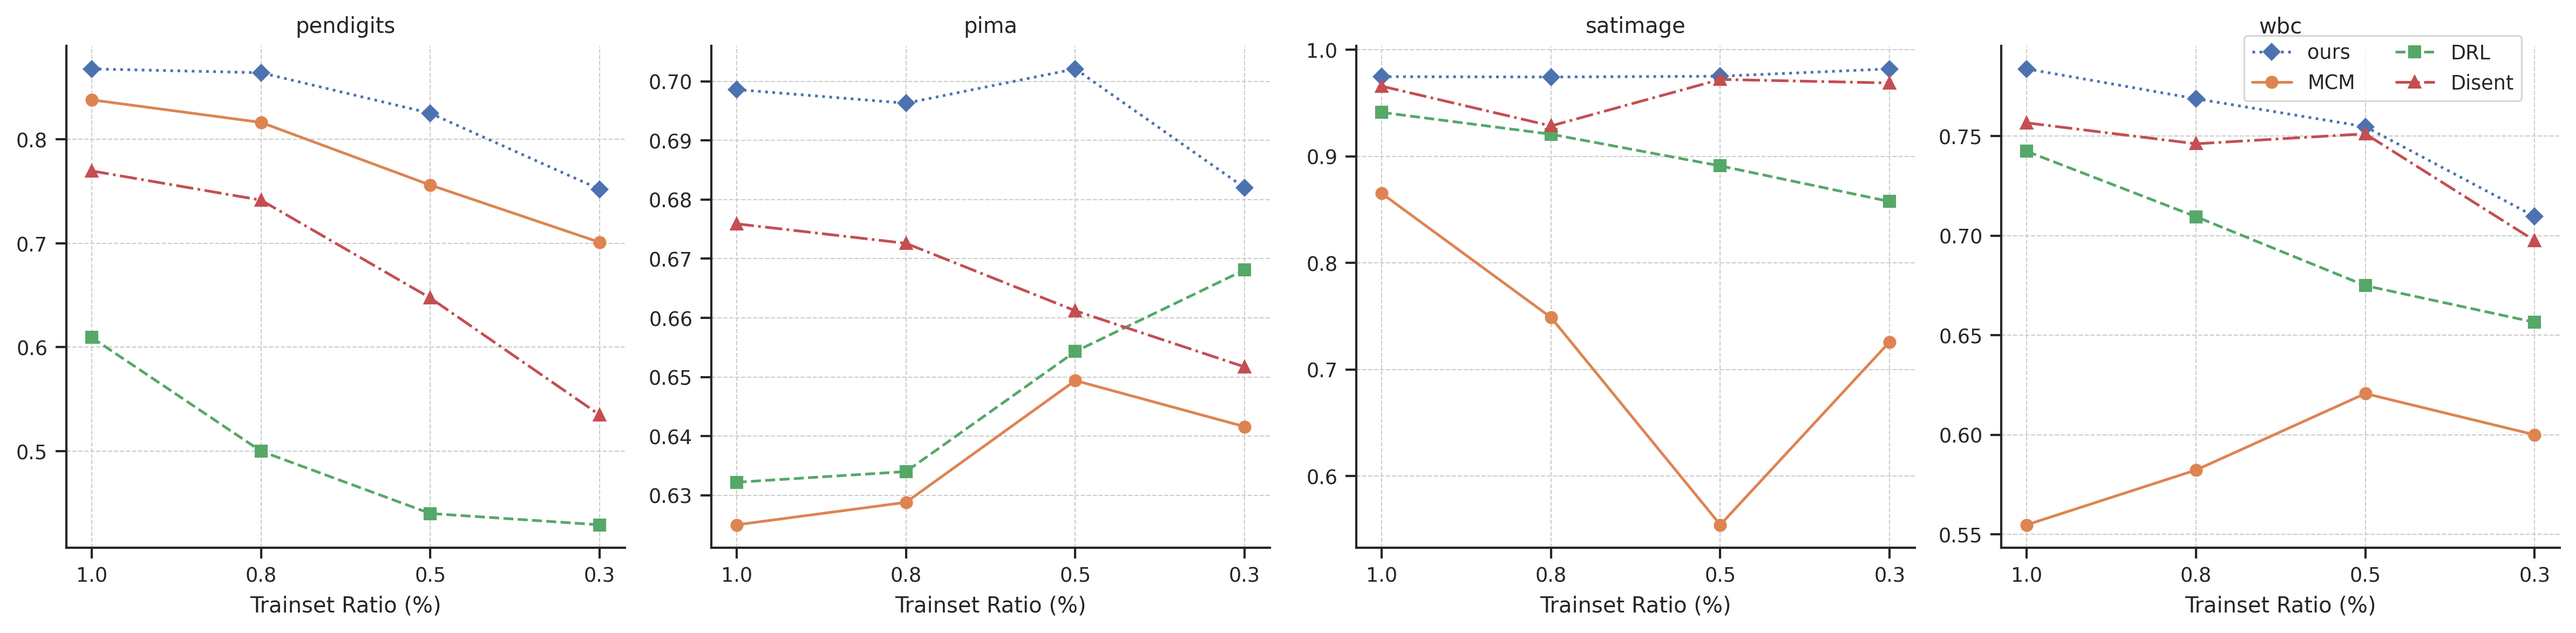
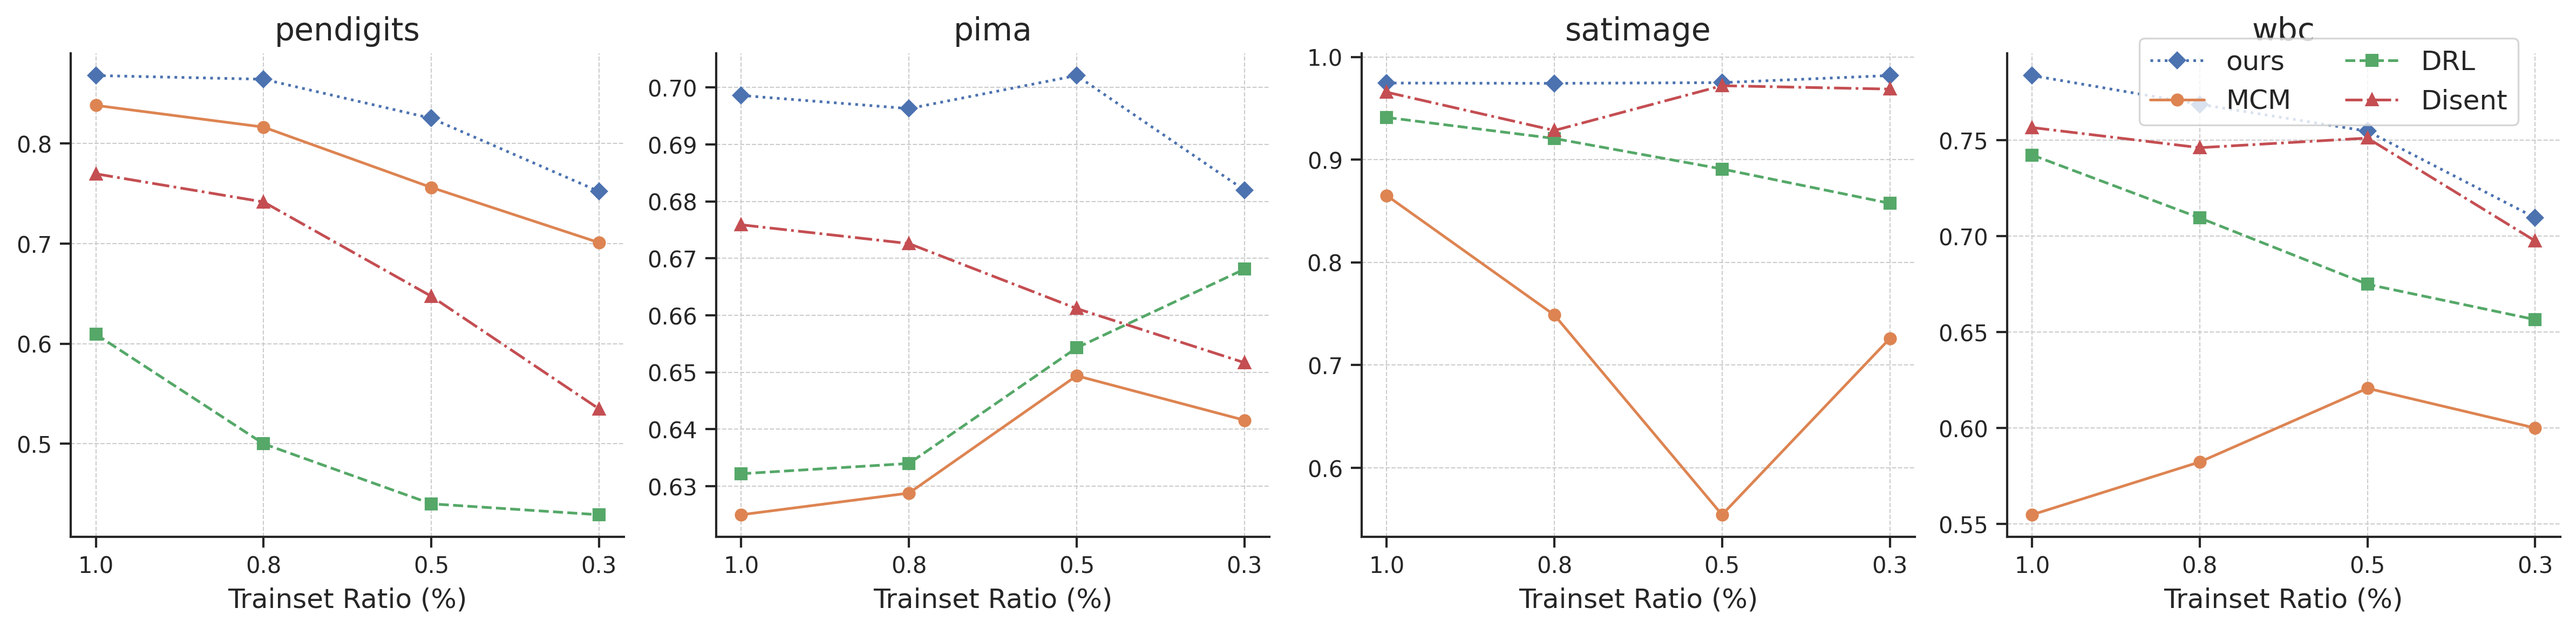
temp

diff --git a/plot_paper.py b/plot_paper.py
@@ -375,17 +375,17 @@ def plot_train_ratio():
                 legend_handles.extend(line)
                 legend_labels.append(model)
         
-        ax.set_title(name)
-        ax.set_xlabel('Trainset Ratio (%)')
+        ax.set_title(name, fontsize=14)
+        ax.set_xlabel('Trainset Ratio (%)', fontsize=12)
         ax.set_xticks(x1_positions) 
-        ax.set_xticklabels(trainset_ratio)      
+        ax.set_xticklabels(trainset_ratio, fontsize=10)
+        ax.tick_params(axis='y', labelsize=10)      
         ax.grid(True, linestyle='--', linewidth=0.5)
-
         # if i == 0:
         #     ax.set_ylabel('AUC-PR')
     
     # Add single legend for entire figure
-    fig.legend(legend_handles, legend_labels, loc='upper right', bbox_to_anchor=(0.98, 0.95), ncol=2)
+    fig.legend(legend_handles, legend_labels, loc='upper right', bbox_to_anchor=(0.98, 0.95), ncol=2, fontsize=12)
     
     plt.tight_layout()
     sns.despine(fig)
